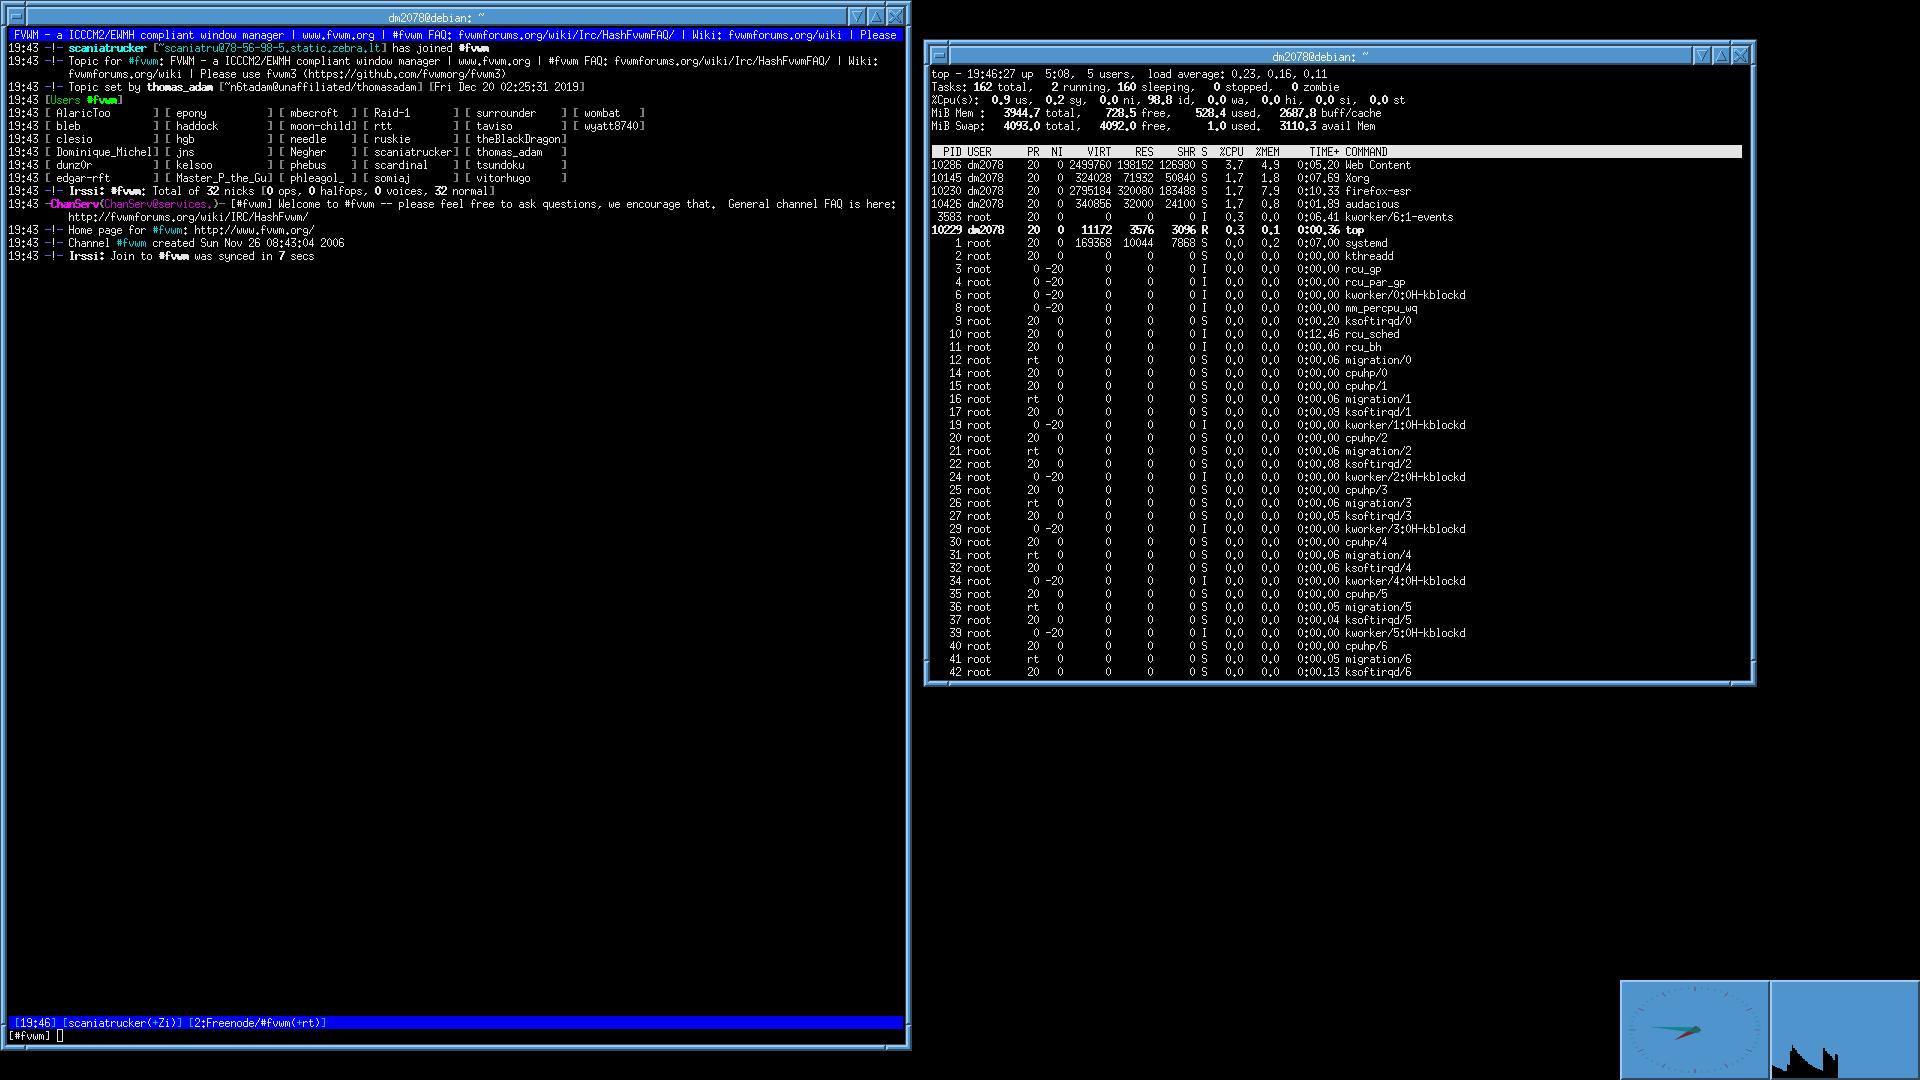
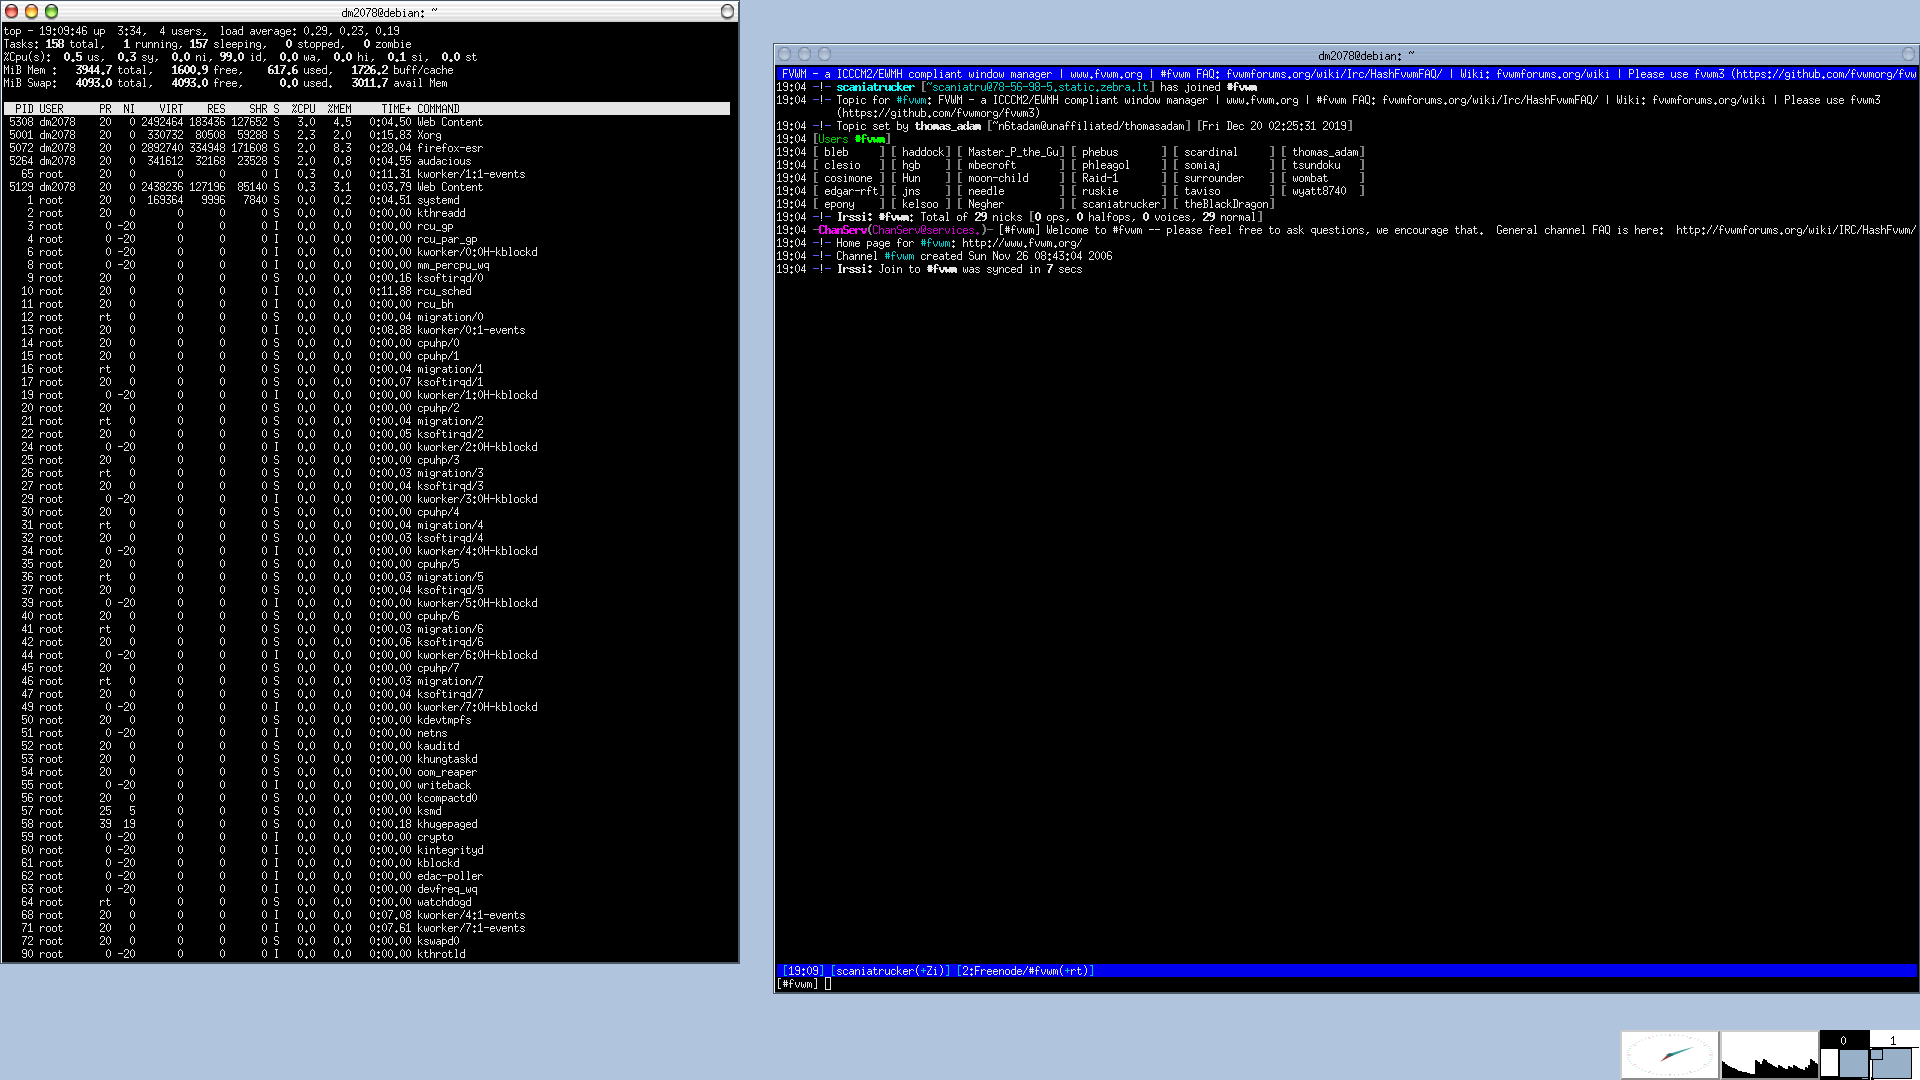
Complete rewrite!

Changed region(s): [[0.0, 0.0, 1.0, 1.0]]

diff --git a/README.md b/README.md
@@ -3,7 +3,7 @@ This minimal but useful FVWM config, running in the minimal (844 pkgs) Debian 10
 
 As for packages, i use almost only cli programs: `mpv, mpalyer, cdw, mpg123, sox, mc, alsamixer, htop, irssi, xloadimage, patool, w3m` and only these gui programs: `Firefox-esr, Audacious, Alsaplayer, Xpaint, SpaceFM, Gmrun, Transmission-gtk, Xter, Urxvt and Alsamixergui`.
 
-As for FVWM configuratiin, this is minimal configuration, who was shamefully conceived from [bfmartin](https://github.com/bfmartin/fvwm-config-on-openbsd) and adapted for modern FVWM (2.6.8-1) version. I corrected erros in logs, removed deprecated functions etc..
+As for FVWM configuration, this is minimal configuration, who was shamefully conceived from [bfmartin](https://github.com/bfmartin/fvwm-config-on-openbsd) and adapted for modern FVWM (2.6.8-1) version. I corrected erros in logs, changed decors from Vector to OSX Decoration, removed deprecated functions, changed colors etc..
 
 Also, i added custom keybindings, coreccted errors in FVWMButtons module. 
 
